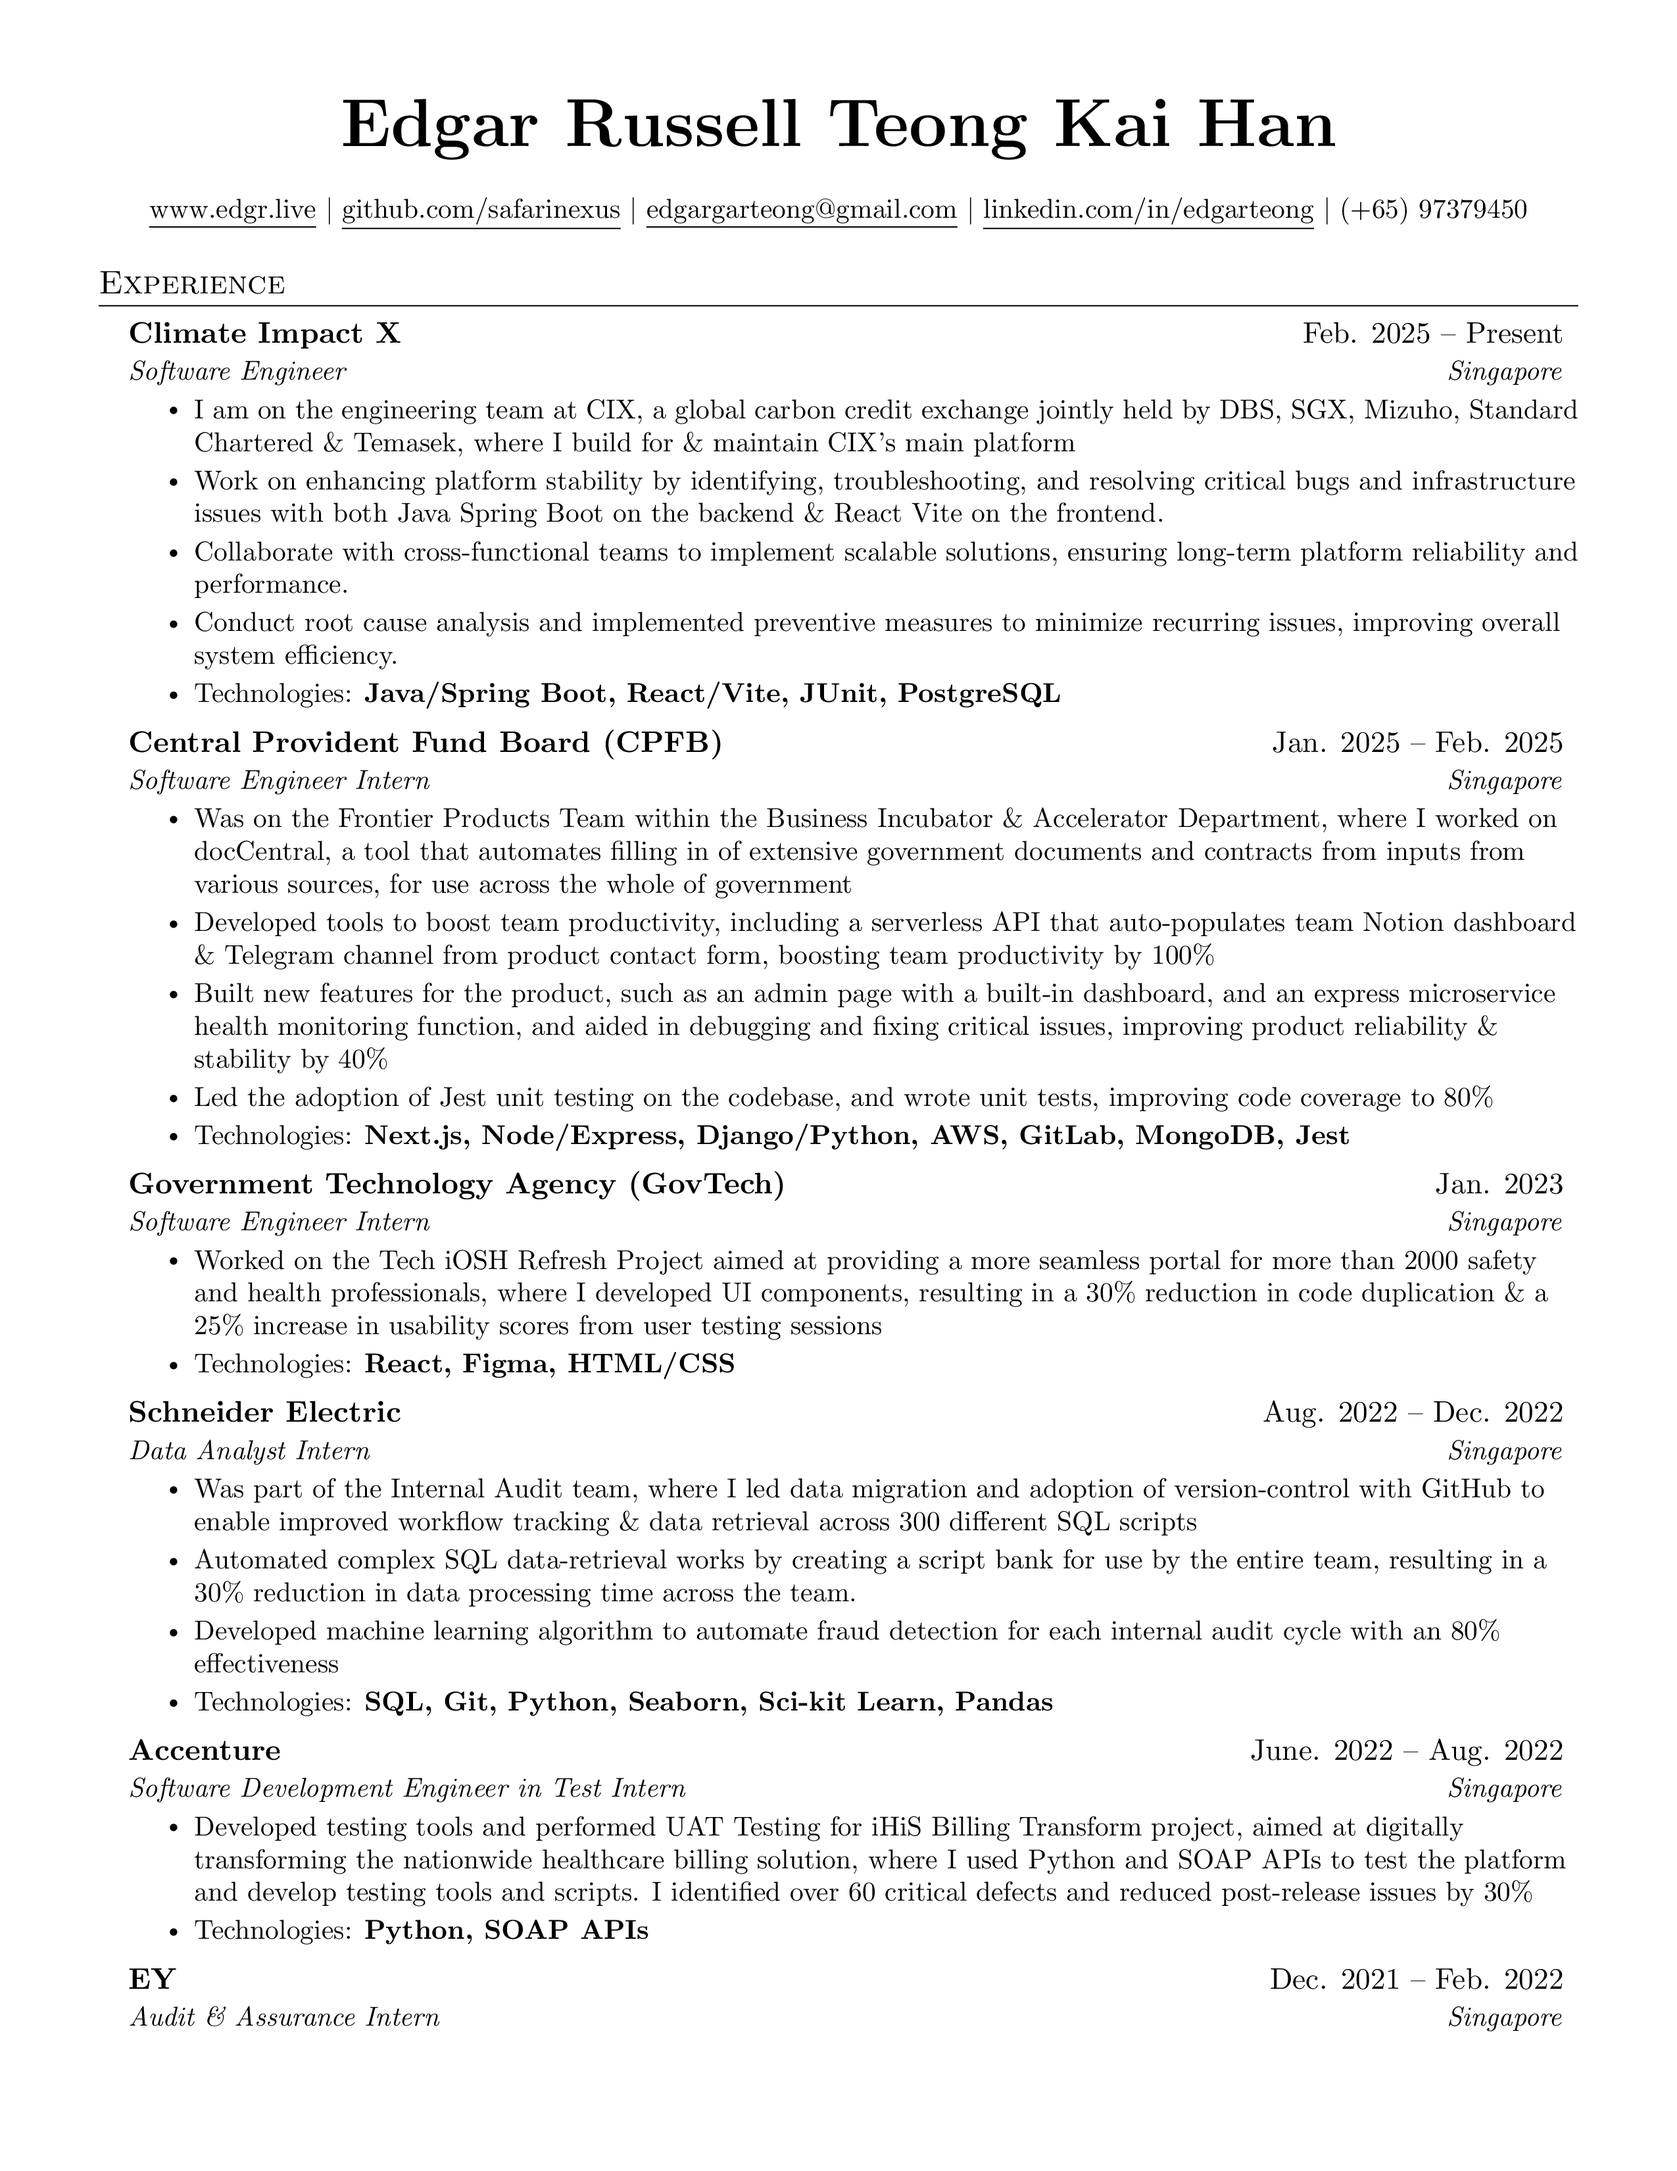
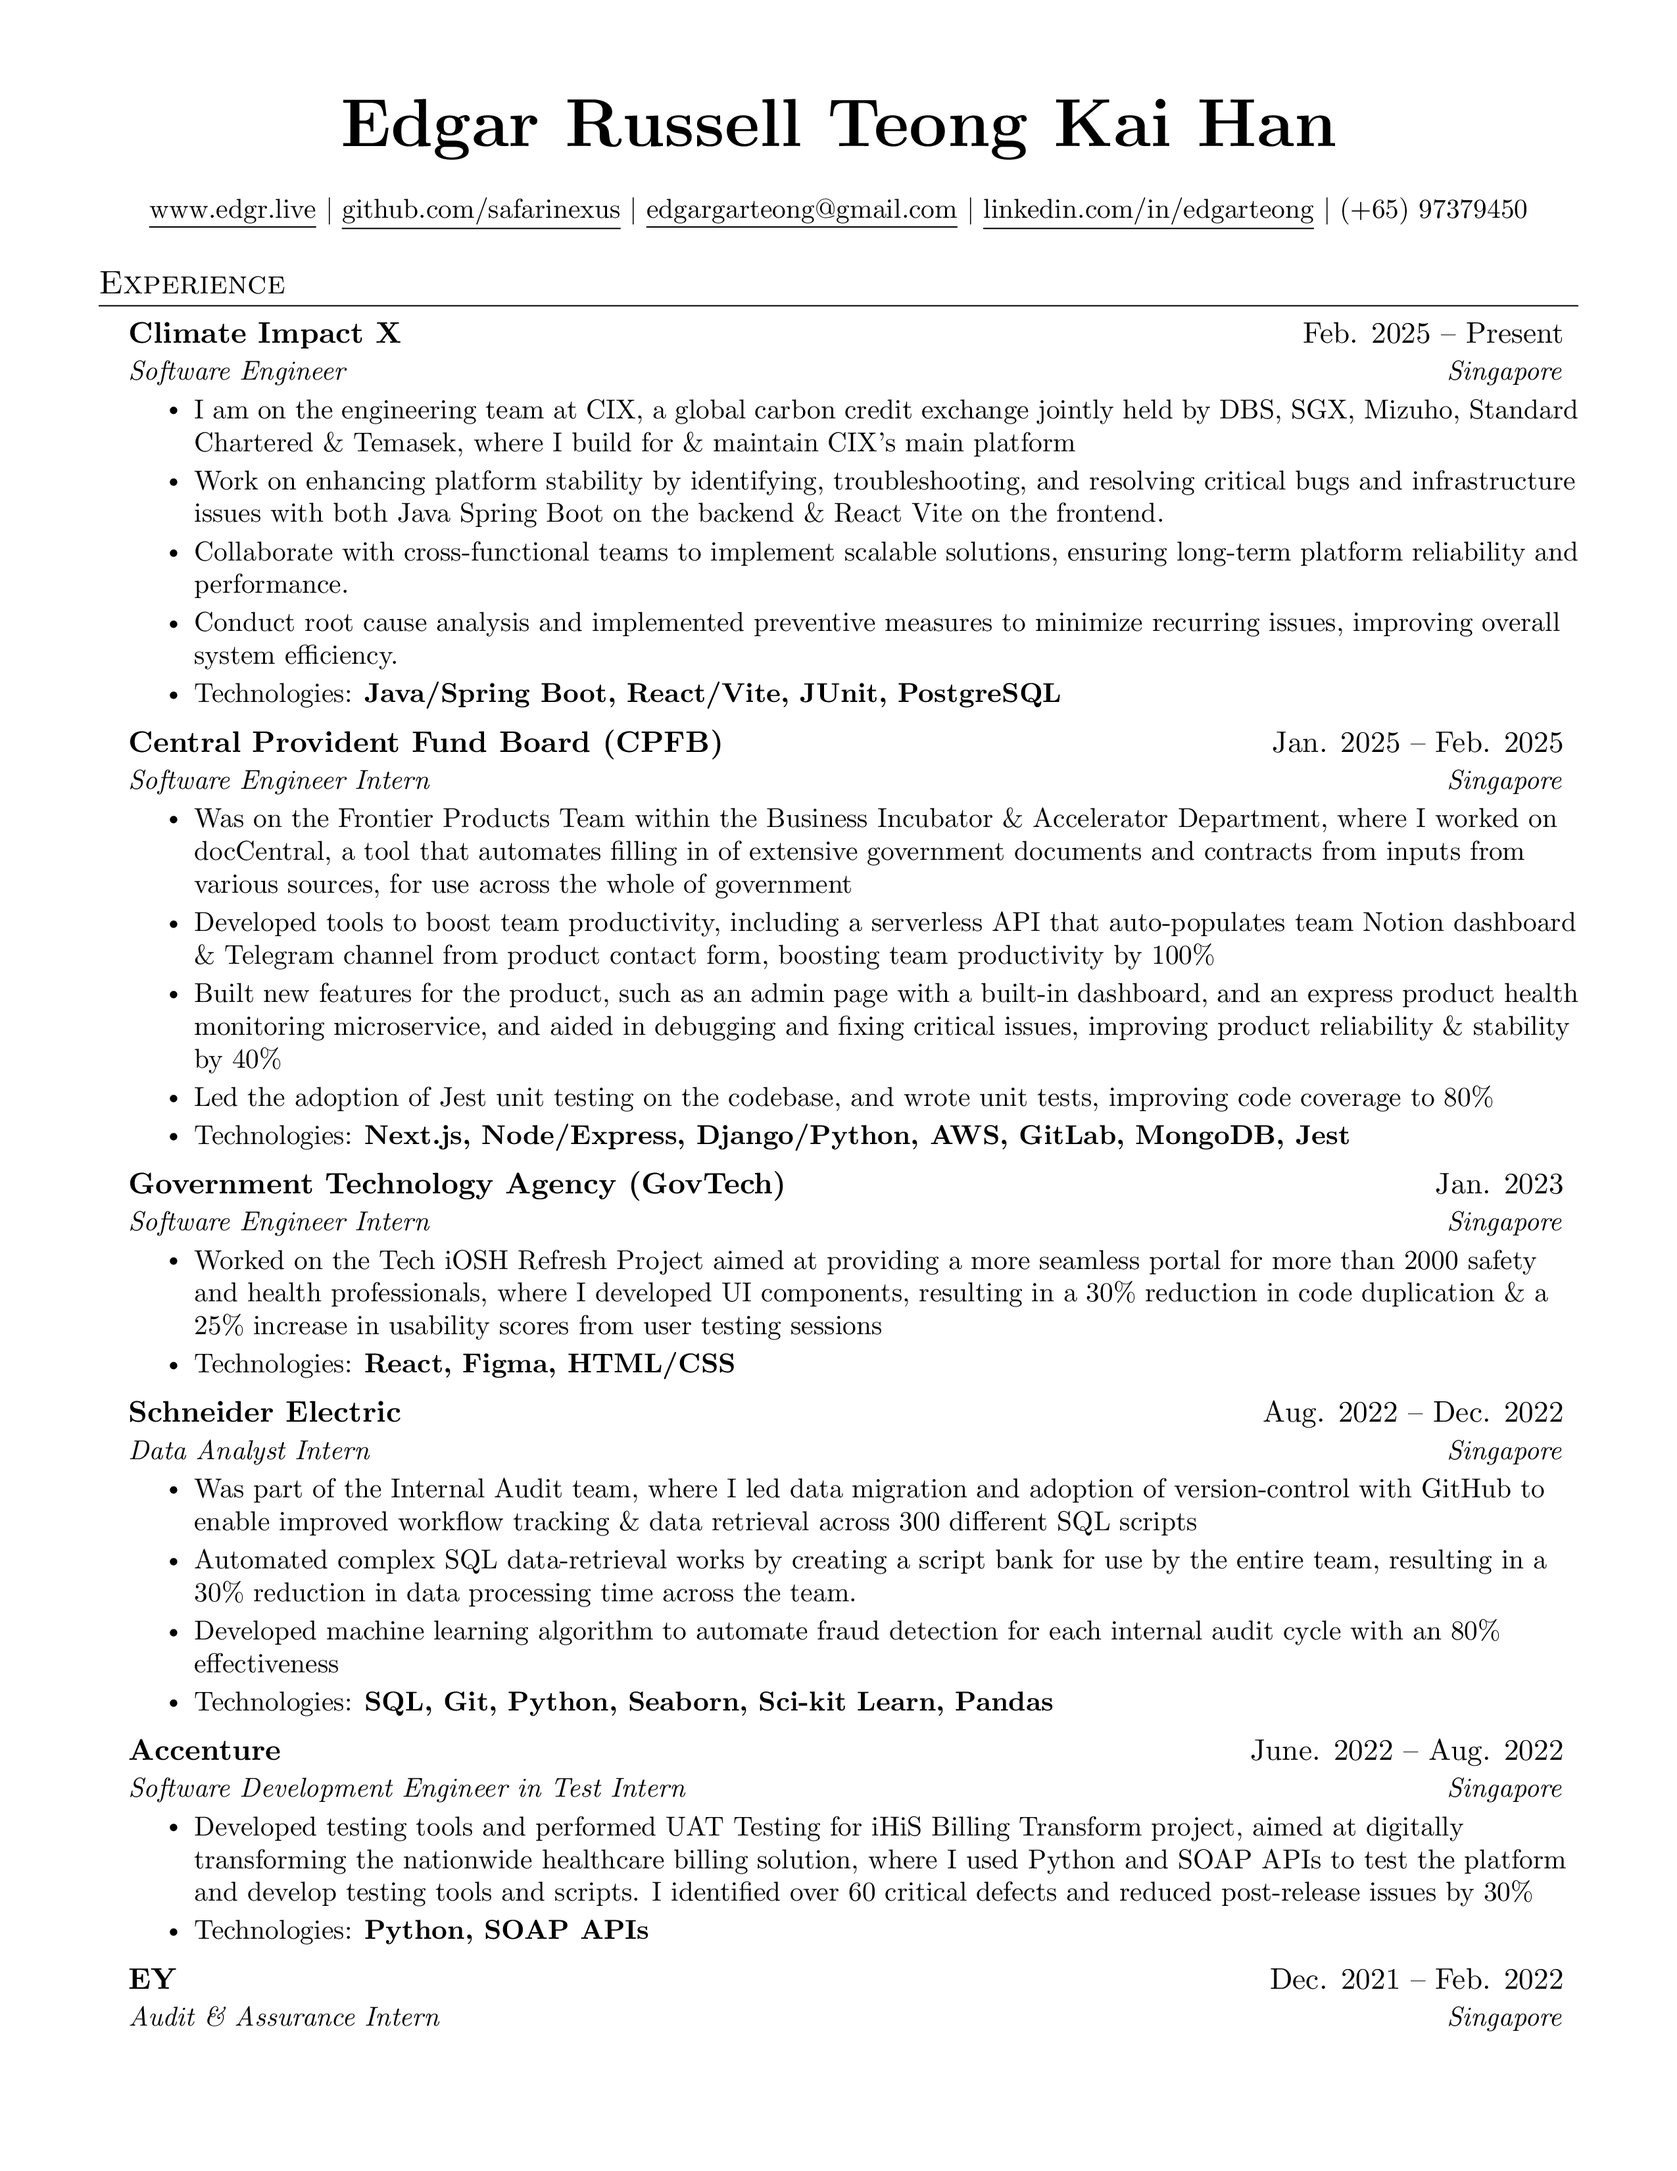
updated resume

Changed region(s): [[0.2788, 0.437, 0.9294, 0.4994], [0.1239, 0.4682, 0.2478, 0.4994]]

diff --git a/edgr_resume.tex b/edgr_resume.tex
@@ -161,7 +161,7 @@
     \resumeItemListStart
       \resumeItem{Was on the Frontier Products Team within the Business Incubator \& Accelerator Department, where I worked on docCentral, a tool that automates filling in of extensive government documents and contracts from inputs from various sources, for use across the whole of government}
       \resumeItem{Developed tools to boost team productivity, including a serverless API that auto-populates team Notion dashboard \& Telegram channel from product contact form, boosting team productivity by 100\%} 
-      \resumeItem{Built new features for the product, such as an admin page with a built-in dashboard, and an express microservice health monitoring function, and aided in debugging and fixing critical issues, improving product reliability \& stability by 40\%}
+      \resumeItem{Built new features for the product, such as an admin page with a built-in dashboard, and an express product health monitoring microservice, and aided in debugging and fixing critical issues, improving product reliability \& stability by 40\%}
       \resumeItem{Led the adoption of Jest unit testing on the codebase, and wrote unit tests, improving code coverage to 80\%}
       \resumeItem{Technologies: \textbf{Next.js, Node/Express, Django/Python, AWS, GitLab, MongoDB, Jest}}
     \resumeItemListEnd
